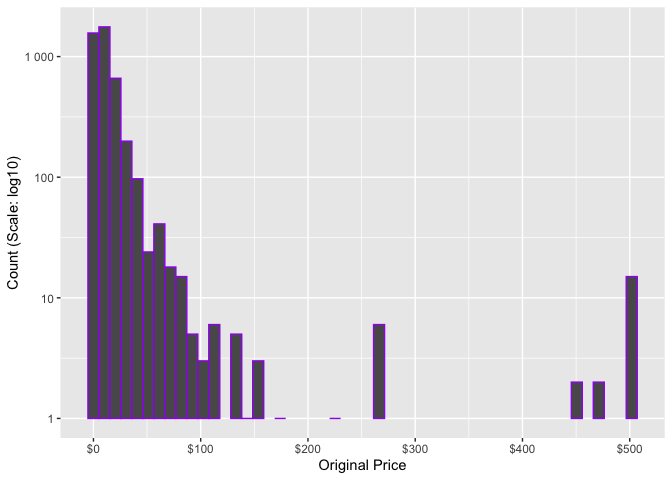
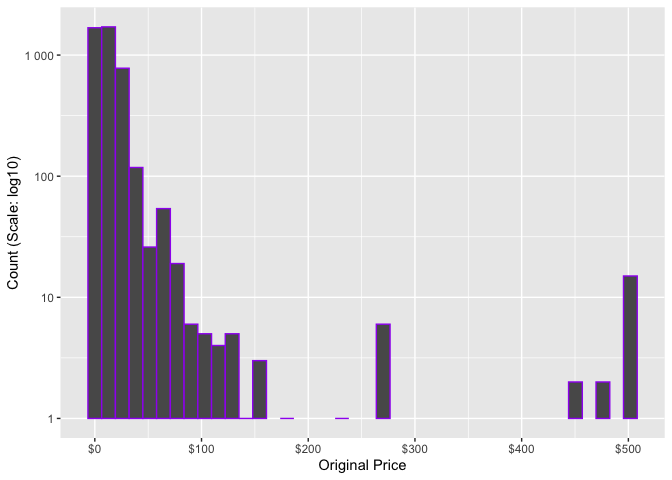
A markdown error fixed on rmd file -> and md file consequently

diff --git a/mini-project-1.md b/mini-project-1.md
@@ -464,7 +464,8 @@ sufficient comments for a reader to understand your reasoning and code.
 > a small price (0.001) to their original price. I did not do anything
 > abour 0 count for a price point since it should not be represented on
 > the graph anyway. The warnings indicate 0 count bins which is fine and
-> nothing concerning.
+> nothing concerning. I also tried to plot the density function, but it
+> does not represents well, so I am keeping the histogram.
 
 ``` r
 # since I will use log scale, I first add a small amount (0.001) to the every original_price value before using log function, just to prevent 0 values from converging
@@ -473,7 +474,7 @@ anti_converge_steam_games = steam_games %>% mutate(original_price = original_pri
 # Here, I also categorized the games due to their types (if the game is a bundle, app, sub, or NA) to see the difference between their price average as well compared to other types
 # I scale axes to make the graph more legible and interpretable since the price interval is too wide and app count dominates the type comparison as well.
 ggplot(anti_converge_steam_games, aes(original_price)) +
-  geom_histogram(aes(fill=types), bins=60)+ # I have used bins as 60, since it was the best option for the sake of reading and interpretation
+  geom_histogram( aes(fill=types), bins=60)+ # I have used bins as 60, since it was the best option for the sake of reading and interpretation
   scale_x_log10("Original Price (Scale: log10)") +
   scale_y_log10("Count (Scale: log10)") +
   ggtitle("Histogram for the count distribution of games on original price") 
@@ -574,7 +575,10 @@ ggplot(augmented_steam_games) +
 > a bit more conveniently and a histogram that shows the bin
 > distribution better. It seems like people tend to like cheaper games.
 > And people only voted apps as “very positive” according to the
-> boxplot.
+> boxplot. Again, I have scaled the y axis with log10 in order to see
+> the details better. The warnings are due to 0 counts which would not
+> be represented anyway. Density plot was not detailed enough again, so
+> I am keeping the histogram instead.
 
 ``` r
 # Here, I only filter in the one that contain "Very Positive" in their all_reviews field.
@@ -593,7 +597,7 @@ ggplot(very_positive_games) +
 ``` r
 # This is the histogram that shows the counts of original price points of the very positive games
 ggplot(very_positive_games) + 
-  geom_histogram(aes(original_price), color="purple", bins=50) +
+  geom_histogram(aes(original_price), color="purple", bins=40) +
   scale_y_log10("Count (Scale: log10)", labels = scales::number_format()) +
   xlab("Original Price") +
   scale_x_continuous(labels=scales::dollar_format())
@@ -601,7 +605,7 @@ ggplot(very_positive_games) +
 
     ## Warning: Transformation introduced infinite values in continuous y-axis
 
-    ## Warning: Removed 29 rows containing missing values (`geom_bar()`).
+    ## Warning: Removed 21 rows containing missing values (`geom_bar()`).
 
 ![](mini-project-1_files/figure-gfm/unnamed-chunk-6-2.png)<!-- -->
 
